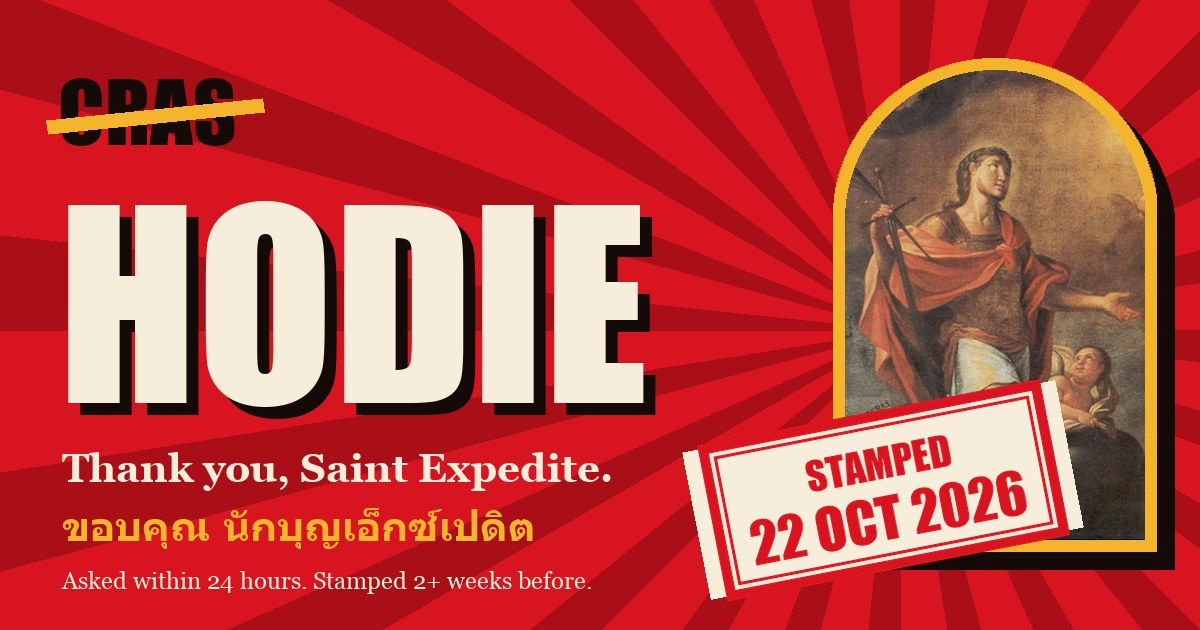
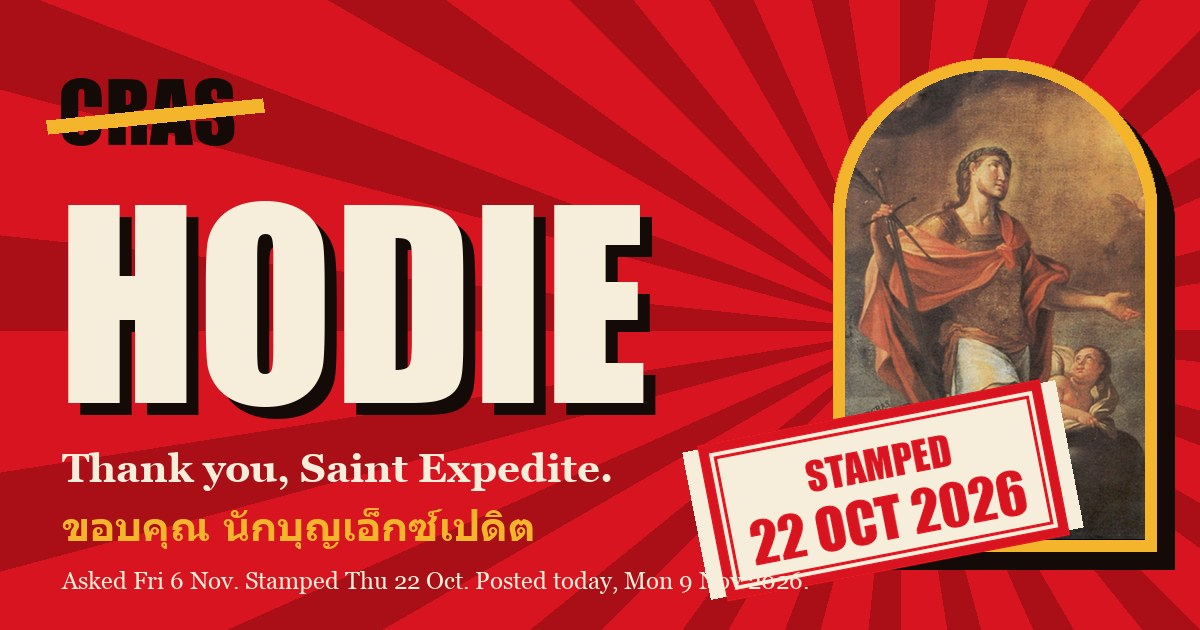
Two todays: posting day and the reader's today, Friday 6 Nov ask, 15 days

Changed region(s): [[0.0925, 0.9048, 0.6783, 0.9349]]

diff --git a/docs/index.html b/docs/index.html
@@ -4,9 +4,9 @@
 <meta charset="utf-8">
 <meta name="viewport" content="width=device-width,initial-scale=1">
 <title>Hodie · Thank You, Saint Expedite</title>
-<meta name="description" content="A thank-you notice to Saint Expedite: asked for a visa stamp within 24 hours, got one dated more than two weeks before the ask. ประกาศขอบคุณนักบุญเอ็กซ์เปดิต">
+<meta name="description" content="A thank-you notice to Saint Expedite, posted today, Monday 9 November 2026. Asked Friday 6 November for a visa stamp within 24 hours; the stamp is dated Thursday 22 October, 15 days before the ask. ประกาศขอบคุณนักบุญเอ็กซ์เปดิต">
 <meta property="og:title" content="HODIE · Thank you, Saint Expedite">
-<meta property="og:description" content="Asked for it within 24 hours. The stamp is dated more than two weeks before I asked. ขอบคุณ นักบุญเอ็กซ์เปดิต">
+<meta property="og:description" content="Asked Friday 6 November for a visa stamp within 24 hours. The stamp is dated Thursday 22 October, 15 days before I asked. Posted today, Monday 9 November 2026. ขอบคุณ นักบุญเอ็กซ์เปดิต">
 <meta property="og:image" content="https://nanobotco.github.io/hodie/card.jpg">
 <meta property="og:image:alt" content="HODIE in big cream letters over a struck-out CRAS, a painting of Saint Expedite in a gold arch, and a red stamp reading 22 OCT 2026">
 <meta property="og:image:width" content="1200"><meta property="og:image:height" content="630">
@@ -78,6 +78,25 @@ nav .links a{text-decoration:none;white-space:nowrap;opacity:.85}nav .links a:ho
 @keyframes burst{0%{transform:translate(-50%,-50%) scale(.3);opacity:1}100%{transform:translate(calc(-50% + var(--dx)),calc(-50% + var(--dy))) scale(1.4) rotate(var(--r));opacity:0}}
 .stompct{position:absolute;right:20px;bottom:16px;z-index:4;font:700 13px/1 var(--serif);letter-spacing:.14em;text-transform:uppercase;color:var(--ink);background:var(--gold);padding:8px 12px;border-radius:99px}
 @media(max-width:860px){.hero{grid-template-columns:1fr;min-height:auto}.hero .copy{padding:36px 20px 10px}.frame{width:min(70vw,320px);margin:20px auto 70px}.crow{width:120px;top:6%}}
+/* two todays */
+.todays{background:var(--gold);padding:clamp(56px,8vw,100px) 0}
+.todays h2{font-size:clamp(60px,10vw,140px);margin:10px 0 12px}
+.todays .sub{max-width:40em;font-size:20px;margin:0 0 30px}
+.tgrid{display:grid;grid-template-columns:1fr 1fr;gap:22px}
+@media(max-width:760px){.tgrid{grid-template-columns:1fr}}
+.tcard{border:0;text-align:left;padding:26px 26px 24px;display:flex;flex-direction:column;gap:6px;box-shadow:12px 12px 0 var(--ink);transition:transform .3s cubic-bezier(.3,1.7,.5,1);font-family:var(--serif)}
+.tcard:active,.tcard.pop{transform:rotate(-1.5deg) scale(1.02)}
+.tcard.mine{background:var(--ink);color:var(--gold)}
+.tcard.yours{background:var(--red);color:var(--cream)}
+.tcard .tl{font:700 14px/1 var(--serif);letter-spacing:.2em;text-transform:uppercase}
+.tcard .tw{font:400 clamp(34px,4vw,54px)/1 var(--disp);text-transform:uppercase;margin-top:10px}
+.tcard .td{font:400 clamp(60px,8.4vw,124px)/.92 var(--disp);text-transform:uppercase}
+[data-lang=th] .tcard .tw,[data-lang=th] .tcard .td{font-family:var(--th-disp);font-weight:800;line-height:1.15}
+.tcard .tw .th,.tcard .td .th{font-family:inherit}
+.tcard .tclock{font:400 clamp(28px,3vw,40px)/1 var(--disp);letter-spacing:.04em;opacity:.9;font-variant-numeric:tabular-nums}
+.tcard .ts{font-size:18px;line-height:1.45;margin-top:10px;color:var(--cream)}
+.readk{margin-top:8px;color:var(--gold)}
+.readk .rtoday{letter-spacing:.12em}
 /* marquee */
 .marq{background:var(--ink);color:var(--gold);overflow:hidden;white-space:nowrap;border-block:4px solid var(--gold);cursor:pointer;user-select:none}
 .marq .track{display:inline-block;font:400 clamp(30px,4.6vw,60px)/1.25 var(--disp);letter-spacing:.03em;animation:marq 38s linear infinite reverse}
@@ -127,6 +146,7 @@ section{position:relative}
 .notice .punch{font:700 italic 24px/1.2 var(--serif);text-align:center;margin:18px 0}
 .notice .th.punch{font-family:var(--th);font-style:normal}
 .notice .sig{text-align:right;font-style:italic;margin-top:18px}
+.notice .readline{text-align:right;font-size:16px;color:var(--red);font-weight:700;margin:0}
 .notice .seal{position:absolute;right:-22px;top:-22px;width:92px;height:92px;border-radius:50%;background:radial-gradient(circle at 35% 35%,#ef3a43,var(--red) 55%,var(--deep));color:var(--gold);display:grid;place-items:center;font:400 19px/1 var(--disp);letter-spacing:.04em;box-shadow:3px 4px 0 rgba(0,0,0,.35);transform:rotate(14deg);transition:transform .5s cubic-bezier(.3,1.8,.5,1)}
 .notice .seal{}@media(max-width:700px){.notice .seal{right:-6px;top:-30px;width:78px;height:78px;font-size:16px}}
 .notice.pressed .seal{transform:rotate(374deg) scale(1.15)}
@@ -225,6 +245,7 @@ footer .disp{font-size:64px;color:var(--gold);cursor:pointer;display:inline-bloc
   <div class="wrap">
     <button class="mark" id="mark" aria-label="Hodie"><span>H</span><span>O</span><span>D</span><span>I</span><span>E</span></button>
     <div class="links">
+      <a href="#todays"><span class="en">Todays</span><span class="th">วันนี้</span></a>
       <a href="#record"><span class="en">Record</span><span class="th">สถิติ</span></a>
       <a href="#ex"><span class="en">Ex</span><span class="th">เอ็กซ์</span></a>
       <a href="#clock"><span class="en">Clock</span><span class="th">นาฬิกา</span></a>
@@ -239,12 +260,13 @@ footer .disp{font-size:64px;color:var(--gold);cursor:pointer;display:inline-bloc
 
 <header class="hero" id="top">
   <div class="copy">
-    <p class="kick en">A thank-you notice · Chiang Mai · November 2026</p>
-    <p class="kick th">ประกาศขอบคุณ · เชียงใหม่ · พฤศจิกายน 2569</p>
+    <p class="kick en">Posted today, Monday 9 November 2026 · Chiang Mai</p>
+    <p class="kick th">โพสต์วันนี้ วันจันทร์ที่ 9 พฤศจิกายน 2569 · เชียงใหม่</p>
+    <p class="kick readk"><span class="en">Read today, </span><span class="th">อ่านวันนี้ </span><span class="rtoday">…</span></p>
     <div class="cras" aria-label="cras, tomorrow, crossed out">CRAS</div>
     <h1 class="big" aria-label="Hodie">HODIE</h1>
-    <p class="lede en">Thank you, Saint Expedite. I asked for my visa stamp <b>within 24 hours</b>. The stamp is dated <b>22 October</b>, more than two weeks before I asked.</p>
-    <p class="lede th">ขอบคุณ นักบุญเอ็กซ์เปดิต ฉันขอให้ประทับตราวีซ่า<b>ภายใน 24 ชั่วโมง</b> ตราที่ได้ลงวันที่ <b>22 ตุลาคม</b> ก่อนวันที่ฉันขอไปสองสัปดาห์กว่า</p>
+    <p class="lede en">Thank you, Saint Expedite. On <b>Friday 6 November</b> I asked for my visa stamp <b>within 24 hours</b>. The stamp is dated <b>Thursday 22 October</b>: 15 days before I asked.</p>
+    <p class="lede th">ขอบคุณ นักบุญเอ็กซ์เปดิต <b>วันศุกร์ที่ 6 พฤศจิกายน</b> ฉันขอให้ประทับตราวีซ่า<b>ภายใน 24 ชั่วโมง</b> ตราที่ได้ลงวันที่ <b>วันพฤหัสบดีที่ 22 ตุลาคม</b> ก่อนวันที่ฉันขอ 15 วัน</p>
     <div class="ctas">
       <a class="btn" href="#record"><span class="en">See the record →</span><span class="th">ดูสถิติ →</span></a>
       <a class="btn ghost" href="#today"><span class="en">Today's stamp →</span><span class="th">ตราของวันนี้ →</span></a>
@@ -270,6 +292,31 @@ footer .disp{font-size:64px;color:var(--gold);cursor:pointer;display:inline-bloc
   <div class="stompct" id="stompct"><span class="en">Crows stomped: </span><span class="th">เหยียบอีกาไปแล้ว: </span><b id="stomps">0</b></div>
 </header>
 
+<section class="todays" id="todays">
+  <div class="wrap">
+    <p class="kick en">Two todays</p><p class="kick th">วันนี้ สองวัน</p>
+    <h2><span class="en">Hodie. Hodie.</span><span class="th">วันนี้ วันนี้</span></h2>
+    <p class="sub en">Hodie is Latin for today. This page has two of them: the today I post it, and the today you read it.</p>
+    <p class="sub th">Hodie (โฮดิเอ) เป็นภาษาละติน แปลว่า วันนี้ หน้านี้มีวันนี้สองวัน วันนี้ที่ฉันโพสต์ และวันนี้ที่คุณอ่าน</p>
+    <div class="tgrid">
+      <button class="tcard mine" type="button">
+        <span class="tl"><span class="en">My today</span><span class="th">วันนี้ของฉัน</span></span>
+        <span class="tw"><span class="en">Monday</span><span class="th">วันจันทร์</span></span>
+        <span class="td"><span class="en">9 Nov 2026</span><span class="th">9 พ.ย. 2569</span></span>
+        <span class="ts en">Chiang Mai. I post this today. Today the stamp is 18 days old, and my ask is 3 days old.</span>
+        <span class="ts th">เชียงใหม่ ฉันโพสต์หน้านี้วันนี้ วันนี้ตราประทับอายุ 18 วัน และคำขอของฉันอายุ 3 วัน</span>
+      </button>
+      <button class="tcard yours" type="button">
+        <span class="tl"><span class="en">Your today</span><span class="th">วันนี้ของคุณ</span></span>
+        <span class="tw" id="ywd">…</span>
+        <span class="td" id="yd">…</span>
+        <span class="tclock" id="yclock"></span>
+        <span class="ts" id="ys"></span>
+      </button>
+    </div>
+  </div>
+</section>
+
 <div class="marq" id="marq" title="tap to flip time">
   <div class="track" id="track"></div>
 </div>
@@ -279,8 +326,8 @@ footer .disp{font-size:64px;color:var(--gold);cursor:pointer;display:inline-bloc
     <div class="secthead">
       <p class="kick en" style="color:var(--gold)">The record</p><p class="kick th" style="color:var(--gold)">สถิติ</p>
       <h2><span class="en">Stamped <em>before</em> I asked</span><span class="th">ประทับตรา<em style="color:var(--gold);font-style:normal">ก่อน</em>ที่ฉันจะขอ</span></h2>
-      <p class="sub en">Read it right to left. The ask is in November. The answer is in October.</p>
-      <p class="sub th">อ่านจากขวาไปซ้าย คำขออยู่เดือนพฤศจิกายน คำตอบอยู่เดือนตุลาคม</p>
+      <p class="sub en">Read it right to left. Friday 6 November, 19:12, Chiang Mai, in our team chat: <q>Shouldn't we have heard about our visas by today?</q> That Friday I asked him. The answer was already stamped, Thursday 22 October, 15 days earlier.</p>
+      <p class="sub th">อ่านจากขวาไปซ้าย วันศุกร์ที่ 6 พฤศจิกายน 19:12 น. เชียงใหม่ ในแชทของทีม: <q>Shouldn't we have heard about our visas by today?</q> (เราน่าจะได้ข่าววีซ่าภายในวันนี้แล้วไม่ใช่เหรอ) วันศุกร์นั้นฉันขอท่าน คำตอบประทับไว้แล้ว วันพฤหัสบดีที่ 22 ตุลาคม ก่อนหน้า 15 วัน</p>
     </div>
     <div class="strip" id="strip" role="button" aria-label="Timeline: asked in early November, stamp dated 22 October. Tap to replay.">
       <span class="tap"><span class="en">Tap to rewind</span><span class="th">แตะเพื่อย้อนเวลา</span></span>
@@ -290,13 +337,13 @@ footer .disp{font-size:64px;color:var(--gold);cursor:pointer;display:inline-bloc
           <filter id="ink"><feTurbulence type="fractalNoise" baseFrequency=".9" numOctaves="2" seed="19"/><feColorMatrix values="0 0 0 0 0  0 0 0 0 0  0 0 0 0 0  0 0 0 -2.2 1.5"/><feComposite in="SourceGraphic" operator="in"/></filter>
         </defs>
         <g id="ticks"></g>
-        <path id="arcshadow" d="M789 402 C 770 0, 320 0, 290 232" fill="none" stroke="#140b09" stroke-width="26" stroke-linecap="round" opacity=".12" transform="translate(8 8)"/>
-        <path id="arc" d="M789 402 C 770 0, 320 0, 290 232" fill="none" stroke="#f4b52c" stroke-width="20" stroke-linecap="round" marker-end="url(#head)"/>
-        <g id="arrowlbl"><rect id="arrowbox" x="400" y="62" width="290" height="70" fill="#140b09"/><text x="545" y="115" text-anchor="middle" font-family="Anton,Impact,sans-serif" font-size="52" fill="#f4b52c" id="arrowtxt">2+ WEEKS BACK</text></g>
-        <g id="askpin"><circle cx="789" cy="430" r="20" fill="#140b09"/><circle cx="789" cy="430" r="8" fill="#f4b52c"/>
-          <text x="814" y="318" font-family="Anton,Impact,sans-serif" font-size="66" fill="#140b09" id="asklbl">ASKED</text>
-          <text x="814" y="360" font-family="Fraunces,Georgia,serif" font-weight="700" font-size="30" fill="#d7141f" id="asksub">within 24 h</text>
-          <rect x="789" y="398" width="33" height="14" fill="#d7141f"/></g>
+        <path id="arcshadow" d="M757 402 C 740 0, 320 0, 290 232" fill="none" stroke="#140b09" stroke-width="26" stroke-linecap="round" opacity=".12" transform="translate(8 8)"/>
+        <path id="arc" d="M757 402 C 740 0, 320 0, 290 232" fill="none" stroke="#f4b52c" stroke-width="20" stroke-linecap="round" marker-end="url(#head)"/>
+        <g id="arrowlbl"><rect id="arrowbox" x="400" y="62" width="290" height="70" fill="#140b09"/><text x="545" y="115" text-anchor="middle" font-family="Anton,Impact,sans-serif" font-size="52" fill="#f4b52c" id="arrowtxt">15 DAYS BACK</text></g>
+        <g id="askpin"><circle cx="757" cy="430" r="20" fill="#140b09"/><circle cx="757" cy="430" r="8" fill="#f4b52c"/>
+          <text x="782" y="318" font-family="Anton,Impact,sans-serif" font-size="66" fill="#140b09" id="asklbl">ASKED</text>
+          <text x="782" y="360" font-family="Fraunces,Georgia,serif" font-weight="700" font-size="30" fill="#d7141f" id="asksub">within 24 h</text>
+          <rect x="757" y="398" width="33" height="14" fill="#d7141f"/></g>
         <g id="stamp" filter="url(#ink)">
           <rect x="100" y="246" width="350" height="156" fill="none" stroke="#d7141f" stroke-width="11"/>
           <rect x="116" y="262" width="318" height="124" fill="none" stroke="#d7141f" stroke-width="4"/>
@@ -307,10 +354,10 @@ footer .disp{font-size:64px;color:var(--gold);cursor:pointer;display:inline-bloc
     </div>
     <div class="ticker"><div class="d" id="tick">22 OCT</div><div class="l"><span class="en">The calendar, running the way he runs it.</span><span class="th">ปฏิทิน เดินแบบที่ท่านเดิน</span></div></div>
     <div class="slab">
-      <div><b>24<small>H</small></b><span class="en">what I asked for</span><span class="th">ที่ฉันขอ</span></div>
-      <div><b>22<small>OCT</small></b><span class="en">date on the stamp</span><span class="th">วันที่บนตราประทับ</span></div>
-      <div><b>2</b><span class="en">passports: mine and Michael's</span><span class="th">พาสปอร์ต: ของฉันกับของไมเคิล</span></div>
-      <div><b id="age">18</b><span class="en">days that stamp has waited for us, as of today</span><span class="th">วันที่ตรานั้นรอเราอยู่ นับถึงวันนี้</span></div>
+      <div><b>6<small>NOV</small></b><span class="en">Friday, 19:12: the day I asked, within 24 hours</span><span class="th">วันศุกร์ 19:12 น. วันที่ฉันขอ ภายใน 24 ชั่วโมง</span></div>
+      <div><b>22<small>OCT</small></b><span class="en">Thursday: the date on the stamp</span><span class="th">วันพฤหัสบดี: วันที่บนตราประทับ</span></div>
+      <div><b>15<small>D</small></b><span class="en">days the stamp came before the ask</span><span class="th">วันที่ตราประทับมาก่อนคำขอ</span></div>
+      <div><b id="age">18</b><span class="en">days: the stamp's age today, your today, <span class="rtoday">…</span></span><span class="th">วัน: อายุตราประทับวันนี้ วันนี้ของคุณ <span class="rtoday">…</span></span></div>
     </div>
 
     <article class="notice" id="notice" aria-label="Thank-you notice">
@@ -318,19 +365,23 @@ footer .disp{font-size:64px;color:var(--gold);cursor:pointer;display:inline-bloc
       <div class="mast"><span class="en">Notices · Thanks</span><span class="th">ประกาศ · ขอบคุณ</span></div>
       <div class="en">
         <h3>Thank you, Saint Expedite</h3>
-        <p>I asked for my Non-B visa to be stamped "within the next 24 hours." The passport isn't even back in my hands yet. But the Non-B photographed inside it is stamped 22 October. That's more than two weeks before I asked.</p>
+        <p>Friday, 6 November, 19:12, I typed into our team chat: "Shouldn't we have heard about our visas by today?" That Friday I asked Saint Expedite to get my Non-B visa stamped "within the next 24 hours."</p>
+        <p>Today is Monday, 9 November 2026. The passport isn't back in my hands yet. But the Non-B photographed inside it is stamped Thursday, 22 October. Fifteen days before I asked.</p>
         <p class="punch">Not fast. Retroactive.</p>
         <p>He did it for Michael too. Two passports, zero waiting, one very confused calendar.</p>
-        <p>I know a lot about visas. This has got to be a record, even for Expedite. Hodie.</p>
-        <p class="sig">NaN, Chiang Mai</p>
+        <p>I know a lot about visas. This has got to be a record, even for Expedite. Hodie means today, and I'm saying it today.</p>
+        <p class="sig">NaN, Chiang Mai, today, Monday 9 November 2026</p>
+        <p class="readline">You're reading it today: <span class="rtoday">…</span>.</p>
       </div>
       <div class="th">
         <h3>ขอบคุณ นักบุญเอ็กซ์เปดิต</h3>
-        <p>ฉันขอให้ประทับตราวีซ่า Non-B "ภายใน 24 ชั่วโมงนี้" พาสปอร์ตยังไม่ทันกลับมาถึงมือ แต่วีซ่าในรูปถ่ายข้างในเล่ม ประทับตราลงวันที่ 22 ตุลาคม ก่อนวันที่ฉันขอไปสองสัปดาห์กว่า</p>
+        <p>วันศุกร์ที่ 6 พฤศจิกายน เวลา 19:12 น. ฉันพิมพ์ในแชทของทีมว่า "Shouldn't we have heard about our visas by today?" (เราน่าจะได้ข่าววีซ่าภายในวันนี้แล้วไม่ใช่เหรอ) วันศุกร์นั้นเอง ฉันขอนักบุญเอ็กซ์เปดิตให้วีซ่า Non-B ของฉันได้ประทับตรา "ภายใน 24 ชั่วโมงนี้"</p>
+        <p>วันนี้คือวันจันทร์ที่ 9 พฤศจิกายน 2569 พาสปอร์ตยังไม่กลับมาถึงมือ แต่วีซ่า Non-B ในรูปถ่ายข้างในเล่ม ประทับตราลงวันพฤหัสบดีที่ 22 ตุลาคม ก่อนวันที่ฉันขอ 15 วัน</p>
         <p class="punch">ไม่ใช่แค่เร็ว แต่ย้อนเวลา</p>
         <p>ท่านทำให้ไมเคิลด้วย สองพาสปอร์ต ไม่ต้องรอสักวัน ปฏิทินงงไปหนึ่งเล่ม</p>
-        <p>เรื่องวีซ่า ฉันรู้เยอะ ครั้งนี้ต้องเป็นสถิติแน่ ๆ แม้แต่สำหรับเอ็กซ์เปดิตเอง Hodie (โฮดิเอ แปลว่า วันนี้)</p>
-        <p class="sig">แนน, เชียงใหม่</p>
+        <p>เรื่องวีซ่า ฉันรู้เยอะ ครั้งนี้ต้องเป็นสถิติแน่ ๆ แม้แต่สำหรับเอ็กซ์เปดิตเอง Hodie (โฮดิเอ) แปลว่า วันนี้ และฉันพูดมันวันนี้</p>
+        <p class="sig">แนน, เชียงใหม่, วันนี้ วันจันทร์ที่ 9 พฤศจิกายน 2569</p>
+        <p class="readline">คุณอ่านมันวันนี้: <span class="rtoday">…</span></p>
       </div>
     </article>
   </div>
@@ -524,6 +575,8 @@ const MON_EN=['JAN','FEB','MAR','APR','MAY','JUN','JUL','AUG','SEP','OCT','NOV',
 const fmt=d=>lang==='th'?d.toLocaleDateString('th-TH',{day:'numeric',month:'short'}):d.getDate()+' '+MON_EN[d.getMonth()];
 const fmtY=d=>lang==='th'?d.toLocaleDateString('th-TH',{day:'numeric',month:'short',year:'numeric'}):d.getDate()+' '+MON_EN[d.getMonth()]+' '+d.getFullYear();
 const dayStart=d=>new Date(d.getFullYear(),d.getMonth(),d.getDate());
+const fmtLong=d=>d.toLocaleDateString(lang==='th'?'th-TH':'en-GB',{weekday:'long',day:'numeric',month:'long',year:'numeric'});
+const POSTED=new Date(2026,10,9);
 const reduce=matchMedia('(prefers-reduced-motion: reduce)').matches;
 let stomps=0;try{stomps=+localStorage.getItem('hodie-stomps')||0}catch(e){}
 
@@ -563,7 +616,9 @@ const tk=$('#ticks');const N=29,x0=50,x1=950,dx=(x1-x0)/(N-1);let s='';
 s+=`<line x1="30" y1="430" x2="975" y2="430" stroke="#140b09" stroke-width="7"/>`;
 for(let i=0;i<N;i++){const d=new Date(2026,9,15+i),x=x0+i*dx,big=d.getDate()===22&&d.getMonth()===9;
   s+=`<line x1="${x}" y1="${big?404:420}" x2="${x}" y2="${big?456:440}" stroke="${big?'#d7141f':'#140b09'}" stroke-width="${big?6:2.5}"/>`;
-  if(i%2===1||big)s+=`<text x="${x}" y="${big?494:482}" text-anchor="middle" font-family="Anton,Impact,sans-serif" font-size="${big?40:26}" fill="${big?'#d7141f':'#140b09'}">${d.getDate()}</text>`;}
+  const ask=i===22,post=i===25;
+  if(post)s+=`<rect x="${x-24}" y="458" width="48" height="34" fill="#f4b52c"/><rect x="${x-68}" y="512" width="136" height="36" fill="#140b09"/><text x="${x}" y="539" text-anchor="middle" font-family="Anton,Impact,sans-serif" font-size="24" fill="#f4b52c" id="postlbl">MY TODAY</text>`;
+  if(i%2===1||big||ask)s+=`<text x="${x}" y="${big||ask?494:482}" text-anchor="middle" font-family="Anton,Impact,sans-serif" font-size="${big||ask?40:26}" fill="${big?'#d7141f':'#140b09'}">${d.getDate()}</text>`;}
 s+=`<text x="${x0}" y="540" font-family="Anton,Impact,sans-serif" font-size="36" fill="#140b09" id="moct">OCT</text>`;
 s+=`<text x="${x0+17*dx}" y="540" font-family="Anton,Impact,sans-serif" font-size="36" fill="#140b09" id="mnov">NOV</text>`;
 s+=`<line x1="${x0+16.5*dx}" y1="410" x2="${x0+16.5*dx}" y2="548" stroke="#140b09" stroke-width="2" stroke-dasharray="4 5"/>`;
@@ -573,25 +628,24 @@ const strip=$('#strip');let tickTimer;
 function play(){
   strip.classList.remove('go','shake');void strip.offsetWidth;strip.classList.add('go');
   clearInterval(tickTimer);
-  const from=new Date(2026,10,7),steps=16;let k=0;$('#tick').textContent=fmt(from);
+  const from=new Date(2026,10,6),steps=15;let k=0;$('#tick').textContent=fmt(from);
   if(reduce){$('#tick').textContent=fmt(STAMP);return}
   tickTimer=setInterval(()=>{k++;const d=new Date(from);d.setDate(from.getDate()-k);$('#tick').textContent=fmt(d);if(k>=steps){clearInterval(tickTimer)}},1450/steps);
   setTimeout(()=>strip.classList.add('shake'),1600);
 }
 strip.onclick=play;
 new IntersectionObserver((es,o)=>{es.forEach(e=>{if(e.isIntersecting){play();o.disconnect()}})},{threshold:.45}).observe(strip);
-$('#age').textContent=Math.max(0,Math.round((dayStart(new Date())-STAMP)/864e5));
 $('#notice').onclick=()=>{$('#notice').classList.toggle('pressed')};
 
 /* ex tiles */
 const EX=[
- ['EXPEDITIOUS','รวดเร็วทันใจ','Stamp dated 22 October. Asked in November.','ตราลงวันที่ 22 ตุลาคม ขอเดือนพฤศจิกายน'],
+ ['EXPEDITIOUS','รวดเร็วทันใจ','Asked Friday 6 November. Stamp dated Thursday 22 October.','ขอวันศุกร์ที่ 6 พ.ย. ตราลงวันพฤหัสบดีที่ 22 ต.ค.'],
  ['EXCEPTIONAL','ยอดเยี่ยม','Two passports: mine and Michael’s.','สองพาสปอร์ต ของฉันกับของไมเคิล'],
  ['EXPERT','เชี่ยวชาญ','Patron of urgent causes: the saint you call when a thing has to happen now.','นักบุญองค์อุปถัมภ์เรื่องด่วน เรียกหาท่านเมื่อเรื่องต้องเกิดเดี๋ยวนี้'],
  ['EXEMPLARY','เป็นแบบอย่าง','The crow said cras, tomorrow. He stepped on it and said hodie, today.','อีการ้อง cras พรุ่งนี้ ท่านเหยียบแล้วตอบว่า hodie วันนี้'],
  ['EXCITING','น่าตื่นเต้น','Paid in pound cake, red flowers and a thank-you in public.','ค่าตอบแทนคือ ปอนด์เค้ก ดอกไม้แดง และคำขอบคุณต่อหน้าคนอื่น'],
  ['EXACT','แม่นยำ','Feast day 19 April, the one date nobody argues about.','วันฉลอง 19 เมษายน วันเดียวที่ไม่มีใครเถียง'],
- ['EXPRESS','ด่วนพิเศษ','Asked for 24 hours. Delivered in the past tense.','ขอ 24 ชั่วโมง ได้มาตั้งแต่อดีต'],
+ ['EXPRESS','ด่วนพิเศษ','Asked for 24 hours. Delivered 15 days in the past.','ขอ 24 ชั่วโมง ได้มาย้อนหลัง 15 วัน'],
  ['EXTRAORDINARY','พิเศษสุด','Red roadside shrines all over Réunion, in the Indian Ocean.','ศาลสีแดงริมทางทั่วเกาะเรอูนียง กลางมหาสมุทรอินเดีย'],
  ['EXALTED','สูงส่ง','Holds his cross up high, HODIE written across it.','ชูไม้กางเขนสูง มีคำว่า HODIE เขียนไว้'],
  ['EXCELLENT','ยอดเลิศ','Students in Naples had a "flying novena" (nine days of prayer, squeezed short) for exam week.','นักเรียนที่เนเปิลส์มี "โนวีนาบิน" (สวดเก้าวัน ย่อให้สั้นลง) ไว้ใช้ช่วงสอบ']];
@@ -632,7 +686,7 @@ function stampIt(){
   $('#askwhat').textContent=v;
   const y=dayStart(new Date());y.setDate(y.getDate()-1);
   $('#rs2').textContent=fmtY(y);
-  $('#askwhen').innerHTML=T('Asked today. Stamped yesterday.','ขอวันนี้ ประทับตราเมื่อวาน');
+  $('#askwhen').textContent=T(`Asked today, ${fmtLong(dayStart(new Date()))}. Stamped yesterday.`,`ขอวันนี้ ${fmtLong(dayStart(new Date()))} ประทับตราเมื่อวาน`);
   const s=$('#rstamp');s.classList.remove('on','wob');void s.offsetWidth;s.classList.add('on');
 }
 $('#askform').onsubmit=e=>{e.preventDefault();stampIt()};
@@ -673,13 +727,30 @@ function renderDays(){
 function note(){
   const f=$('#for').value.trim()||T('my visa, stamped before I asked','วีซ่าที่ประทับตราก่อนฉันจะขอ');
   const who=$('#from').value.trim()||T('N.','น.');
-  return T(`Thank you, Saint Expedite, for ${f}. Hodie. ${who}`,`ขอบคุณ นักบุญเอ็กซ์เปดิต สำหรับ${f} Hodie (วันนี้) ${who}`)}
+  const td=fmtLong(dayStart(new Date()));return T(`Thank you, Saint Expedite, for ${f}. Hodie. ${who}, today, ${td}`,`ขอบคุณ นักบุญเอ็กซ์เปดิต สำหรับ${f} Hodie (วันนี้) ${who} วันนี้ ${td}`)}
 const upd=()=>$('#out').textContent=note();
 ['#for','#from'].forEach(s=>$(s).addEventListener('input',upd));
 $('#copy').onclick=async()=>{try{await navigator.clipboard.writeText(note()+'\nnanobotco.github.io/hodie');$('#copy').firstChild.textContent='Copied ✦';$('#copy').lastChild.textContent='คัดลอกแล้ว ✦'}catch(e){}};
 if(navigator.share){$('#share').hidden=false;$('#share').onclick=()=>navigator.share({text:note(),url:'https://nanobotco.github.io/hodie/'}).catch(()=>{})}
 
+function todays(){
+  const now=new Date(),t=dayStart(now);
+  const diff=Math.round((t-POSTED)/864e5),age=Math.round((t-STAMP)/864e5);
+  document.querySelectorAll('.rtoday').forEach(e=>e.textContent=fmtLong(t));
+  $('#ywd').textContent=t.toLocaleDateString(lang==='th'?'th-TH':'en-GB',{weekday:'long'});
+  $('#yd').textContent=lang==='th'?t.toLocaleDateString('th-TH',{day:'numeric',month:'short',year:'numeric'}).replace('พ.ศ. ',''):t.getDate()+' '+MON_EN[t.getMonth()]+' '+t.getFullYear();
+  let tz='';try{tz=Intl.DateTimeFormat().resolvedOptions().timeZone||''}catch(e){}
+  $('#yclock').textContent=now.toLocaleTimeString(lang==='th'?'th-TH':'en-GB',{hour:'2-digit',minute:'2-digit',second:'2-digit'})+(tz?' · '+tz.replace(/_/g,' '):'');
+  const rel=diff===0?T('the same today as mine. Hodie, twice.','วันนี้เดียวกับของฉัน Hodie สองครั้ง')
+    :diff>0?T(`${diff} day${diff===1?'':'s'} after my today.`,`${diff} วันหลังวันนี้ของฉัน`)
+    :T(`${-diff} day${diff===-1?'':'s'} before my today. He would approve.`,`${-diff} วันก่อนวันนี้ของฉัน ท่านคงชอบ`);
+  $('#ys').textContent=T(`Wherever you are. You read this today, ${rel} Today the stamp is ${age} days old.`,`ไม่ว่าคุณอยู่ที่ไหน คุณอ่านหน้านี้วันนี้ ${rel} วันนี้ตราประทับอายุ ${age} วัน`);
+  $('#age').textContent=Math.max(0,age);
+}
+setInterval(todays,1000);
+document.querySelectorAll('.tcard').forEach(c=>c.onclick=e=>{c.classList.remove('pop');void c.offsetWidth;c.classList.add('pop');setTimeout(()=>c.classList.remove('pop'),300);const r=c.getBoundingClientRect(),p=$('#todays').getBoundingClientRect();burst(e.clientX-p.left,e.clientY-p.top,$('#todays'))});
 function render(){
+  todays();
   $('#need').placeholder=T('my visa stamped','ประทับตราวีซ่าของฉัน');
   $('#for').placeholder=T('my visa, stamped before I asked','วีซ่าที่ประทับตราก่อนฉันจะขอ');
   $('#from').placeholder=T('your name or initials','ชื่อหรือชื่อย่อ');
@@ -687,8 +758,9 @@ function render(){
   $('#asksub').textContent=T('within 24 h','ภายใน 24 ชม.');
   $('#stamptop').textContent=T('STAMPED','ประทับตรา');$('#stamptop').setAttribute('font-family',lang==='th'?'Kanit,sans-serif':'Anton,Impact,sans-serif');
   $('#stampdate').textContent=lang==='th'?'22 ต.ค. 2569':'22 OCT 2026';$('#stampdate').setAttribute('font-family',lang==='th'?'Kanit,sans-serif':'Anton,Impact,sans-serif');
-  $('#arrowtxt').textContent=T('2+ WEEKS BACK','ย้อนกลับ 2 สัปดาห์+');$('#arrowtxt').setAttribute('font-family',lang==='th'?'Kanit,sans-serif':'Anton,Impact,sans-serif');$('#arrowtxt').setAttribute('font-size',lang==='th'?'42':'52');
+  $('#arrowtxt').textContent=T('15 DAYS BACK','ย้อนกลับ 15 วัน');$('#arrowtxt').setAttribute('font-family',lang==='th'?'Kanit,sans-serif':'Anton,Impact,sans-serif');$('#arrowtxt').setAttribute('font-size',lang==='th'?'42':'52');
   {const t=$('#arrowtxt');(document.fonts?document.fonts.ready:Promise.resolve()).then(()=>{try{const b=t.getBBox();const r=$('#arrowbox');r.setAttribute('x',b.x-18);r.setAttribute('width',b.width+36)}catch(e){}})}
+  {const pl=$('#postlbl');if(pl){pl.textContent=T('MY TODAY','วันนี้ของฉัน');pl.setAttribute('font-family',lang==='th'?'Kanit,sans-serif':'Anton,Impact,sans-serif')}}
   $('#moct').textContent=T('OCT','ต.ค.');$('#mnov').textContent=T('NOV','พ.ย.');
   $('#tick').textContent=fmt(STAMP);setDial(new Date());
   renderEx();renderOffers();renderDays();upd();

diff --git a/tools/card.py b/tools/card.py
@@ -56,6 +56,6 @@ img.paste(st, (690, 372), st)
 d = ImageDraw.Draw(img)
 d.text((62, 445), "Thank you, Saint Expedite.", font=ImageFont.truetype(SUP + "Georgia Bold.ttf", 40), fill=CREAM)
 d.text((62, 500), "ขอบคุณ นักบุญเอ็กซ์เปดิต", font=ImageFont.truetype(SUP + "Tahoma Bold.ttf", 40), fill=GOLD)
-d.text((62, 566), "Asked within 24 hours. Stamped 2+ weeks before.", font=ImageFont.truetype(SUP + "Georgia.ttf", 24), fill=CREAM)
+d.text((62, 566), "Asked Fri 6 Nov. Stamped Thu 22 Oct. Posted today, Mon 9 Nov 2026.", font=ImageFont.truetype(SUP + "Georgia.ttf", 24), fill=CREAM)
 img.save(os.path.join(DOCS, "card.jpg"), quality=88)
 print("card.jpg")
